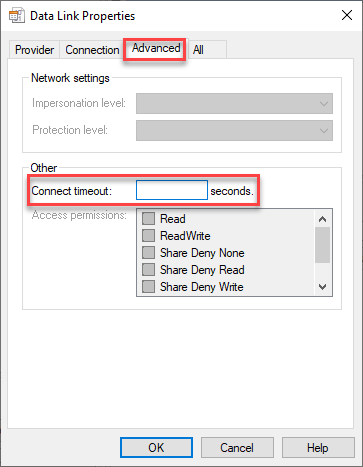
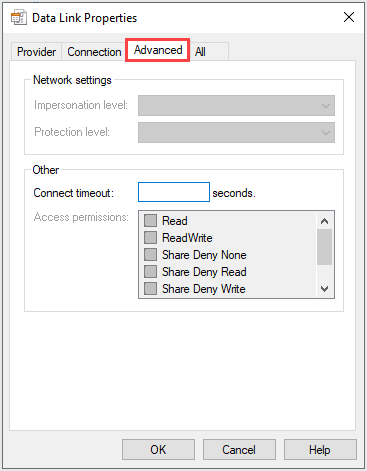
Added Wizard
Updated with text and screenshots with Data Link Properties instructions

Changed region(s): [[0.0, 0.0, 1.0, 1.0], [0.0606, 0.1499, 0.3636, 0.3298]]

diff --git a/learn-bizapps-pr/flow/pad-database-handling/includes/2-database-actions.md b/learn-bizapps-pr/flow/pad-database-handling/includes/2-database-actions.md
@@ -1,23 +1,24 @@
 To connect to a database, use the **Open SQL Connection** action. This action only requires one input: the connection string. The **Connection String** field specifies all information that is necessary to connect to a database, such as the driver, the database, server names, and the username and password. 
 
-Enter the string manually or as a variable. When the action connects to a database, it stores the connection into a SQL connection variable.
+SQL actions require a database connection. When the action connects to a database, it stores the connection into a SQL connection variable. To connect to a database, enter the string manually or as a variable.
 
 ![open sql connection action properties](..\media\open-sql-connection-action-properties.png)
 
-<!--
-If the appropriate connection string is not known, select the ellipsis (**...**) button to open the **Data Link Properties** window. The data link tool helps the user compose the required connection string step by step. First, select the correct driver for the database under the **Provider** tab.
+Alternatively, use the connection string wizard:
 
-![data link properties](..\media\data-link-properties.png)
+1. Select **Build connections string** to open the **Data Link Properties** window. The data link tool helps the user compose the required connection string step by step. 
 
+2. Once you access the wizard, select the correct driver for the database under the **Provider** tab.
 
-Next, under the **Connection** tab, enter the remaining details such as the server name, the username, password, and database name. Select the **Test Connection** button to test that the connection string will connect to a database successfully. Alternatively, you can copy a ready-made connection string. 
+   ![data link properties provider tab](..\media\data-link-properties-provider-tab.png)
 
-![data link properties connection tab](..\media\data-link-properties-connection-tab.png)
+3. Next, under the **Connection** tab, enter the remaining details such as the server name, the username, password, and database name. Select the **Test Connection** button to test that the connection string connects to a database successfully. Alternatively, copy a ready-made connection string.
 
-It is also possible to specify a connection timeout in the **Advanced** tab.
+   ![data link properties connection tab](..\media\data-link-properties-connection-tab.png)
 
-![data link properties advanced tab](..\media\data-link-properties-advanced-tab.png)
--->
+4. Specify a connection timeout and additional network settings in the **Advanced** tab.
+
+   ![data link properties advanced tab](..\media\data-link-properties-advanced-tab.png)
 
 Query the fatabase using the **Execute SQL Statement** action. Under **Get connection by** select ** Configure the action using the already established SQL connection and by setting the SQL connection variable that was created by the previous action. 
 
